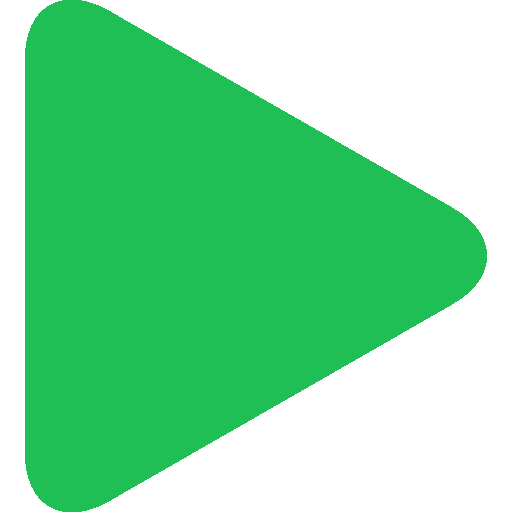
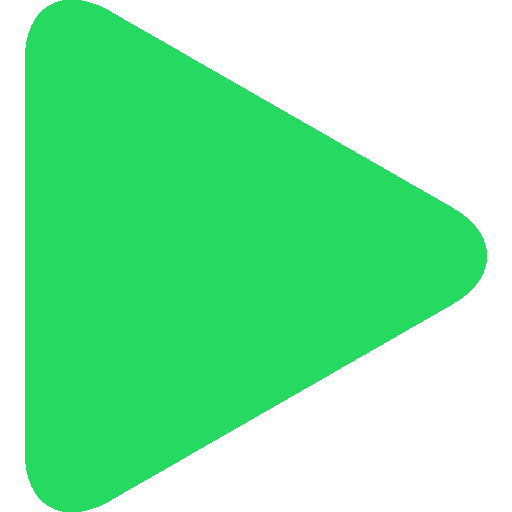
finished :)
just need to do some more styling on the editing buttons

diff --git a/src/main/java/com/example/mazesolver/MazeSolverController.java b/src/main/java/com/example/mazesolver/MazeSolverController.java
@@ -42,7 +42,6 @@ public class MazeSolverController implements Initializable {
         }
     }
 
-
     @FXML
     GridPane mazeGridPane;
     @FXML
@@ -72,7 +71,7 @@ public class MazeSolverController implements Initializable {
         mainMaze = new Block[gridSize][gridSize];
         mazeGridPane.getChildren().clear();
         loadPreset(1);
-        //printMaze();
+        printMaze();
         displayMaze();
         playerCircle.setRadius(tileSize/2);
         playerCircle.setCenterX(50 + playerCircle.getRadius() + gridSize*startLocation[1]);
@@ -84,8 +83,8 @@ public class MazeSolverController implements Initializable {
     }
 
     public void startMazeAlgorithm(){
-        path.clear();
-        masterAnimation = new SequentialTransition();
+        path = new LinkedList<>();
+        masterAnimation.getChildren().clear();
         mazeAlgorithm(startLocation[0], startLocation[1]);
         setupAnimations();
     }
@@ -101,22 +100,21 @@ public class MazeSolverController implements Initializable {
             finish();
             return;
         }
-
         //Checking to move up/right/left/down
         int common = row+1;
-        if(canMove(row, col, common, col) && !mainMaze[common][col].isExplored && !finished){
+        if(canMove(row, col, common, col) && !(mainMaze[common][col].isExplored) && !finished){
             mazeAlgorithm(common, col);
         }
         common = col+1;
-        if(canMove(row, col, row, common) && !mainMaze[row][common].isExplored && !finished){
+        if(canMove(row, col, row, common) && !(mainMaze[row][common].isExplored) && !finished){
             mazeAlgorithm(row, common);
         }
         common = col -1;
-        if(canMove(row, col, row, common) && !mainMaze[row][common].isExplored && !finished){
+        if(canMove(row, col, row, common) && !(mainMaze[row][common].isExplored) && !finished){
             mazeAlgorithm(row, common);
         }
         common = row - 1;
-        if(canMove(row, col, common, col) && !mainMaze[common][col].isExplored && !finished){
+        if(canMove(row, col, common, col) && !(mainMaze[common][col].isExplored) && !finished){
             mazeAlgorithm(common, col);
         }
     }
@@ -159,6 +157,13 @@ public class MazeSolverController implements Initializable {
         }
         masterAnimation.setOnFinished(e -> toggle());
     }
+    public void setUnexplored(){
+        for(int row = 0; row < gridSize; row++){
+            for(int col = 0; col<gridSize; col++){
+                mainMaze[row][col].isExplored = false;
+            }
+        }
+    }
 
     public void toggle(){
         if(isPlaying){
@@ -174,6 +179,7 @@ public class MazeSolverController implements Initializable {
     public void slider(){
         speedSlider.valueProperty().addListener((observable, oldValue, newValue) -> masterAnimation.setRate(( double) newValue));
     }
+
     public void placeModeOn(){
         placeMode = true;
     }
@@ -189,6 +195,7 @@ public class MazeSolverController implements Initializable {
             mainMaze[0][0] = new Block(2);
             finished = false;
             displayMaze();
+            setUnexplored();
             startMazeAlgorithm();
         }
     }
@@ -226,14 +233,14 @@ public class MazeSolverController implements Initializable {
                 if(mainMaze[x][y].isWall) {
                     System.out.print("0 ");
                 }
+                else if(mainMaze[x][y].canMoveHere) {
+                    System.out.print(". ");
+                }
                 else if(mainMaze[x][y].isStart) {
                     System.out.print("S ");
                 }
                 else if(mainMaze[x][y].isFinish) {
                     System.out.print("F ");
-                }
-                else if(mainMaze[x][y].canMoveHere) {
-                    System.out.print(". ");
                 }
             }
             System.out.println();
@@ -442,7 +449,7 @@ public class MazeSolverController implements Initializable {
         }
 
         StringBuilder build = new StringBuilder();
-        build.append("-fx-background-color: #20bf55; -fx-background-radius: ");
+        build.append("-fx-background-color: #25D961; -fx-background-radius: ");
         for(int i = 0; i < 4; i++){
             build.append(" ");
             build.append(roundness[i]);
@@ -455,7 +462,7 @@ public class MazeSolverController implements Initializable {
         if(x == 0){
             int[] temp;
             temp = new int[]{0, 0, 0, 0, 0, 0, 0, 0};
-            for(int z = 0; z < 8; z++){
+            for(int z = 0; z < gridSize; z++){
                 loadPresetHelper(temp, z);
             }
         }
@@ -479,7 +486,7 @@ public class MazeSolverController implements Initializable {
         }
     }
     private void loadPresetHelper(int[] list, int currentRow){
-        for(int i = 0; i < 8; i++){
+        for(int i = 0; i < gridSize; i++){
             mainMaze[currentRow][i] = new Block(list[i]);
         }
     }
